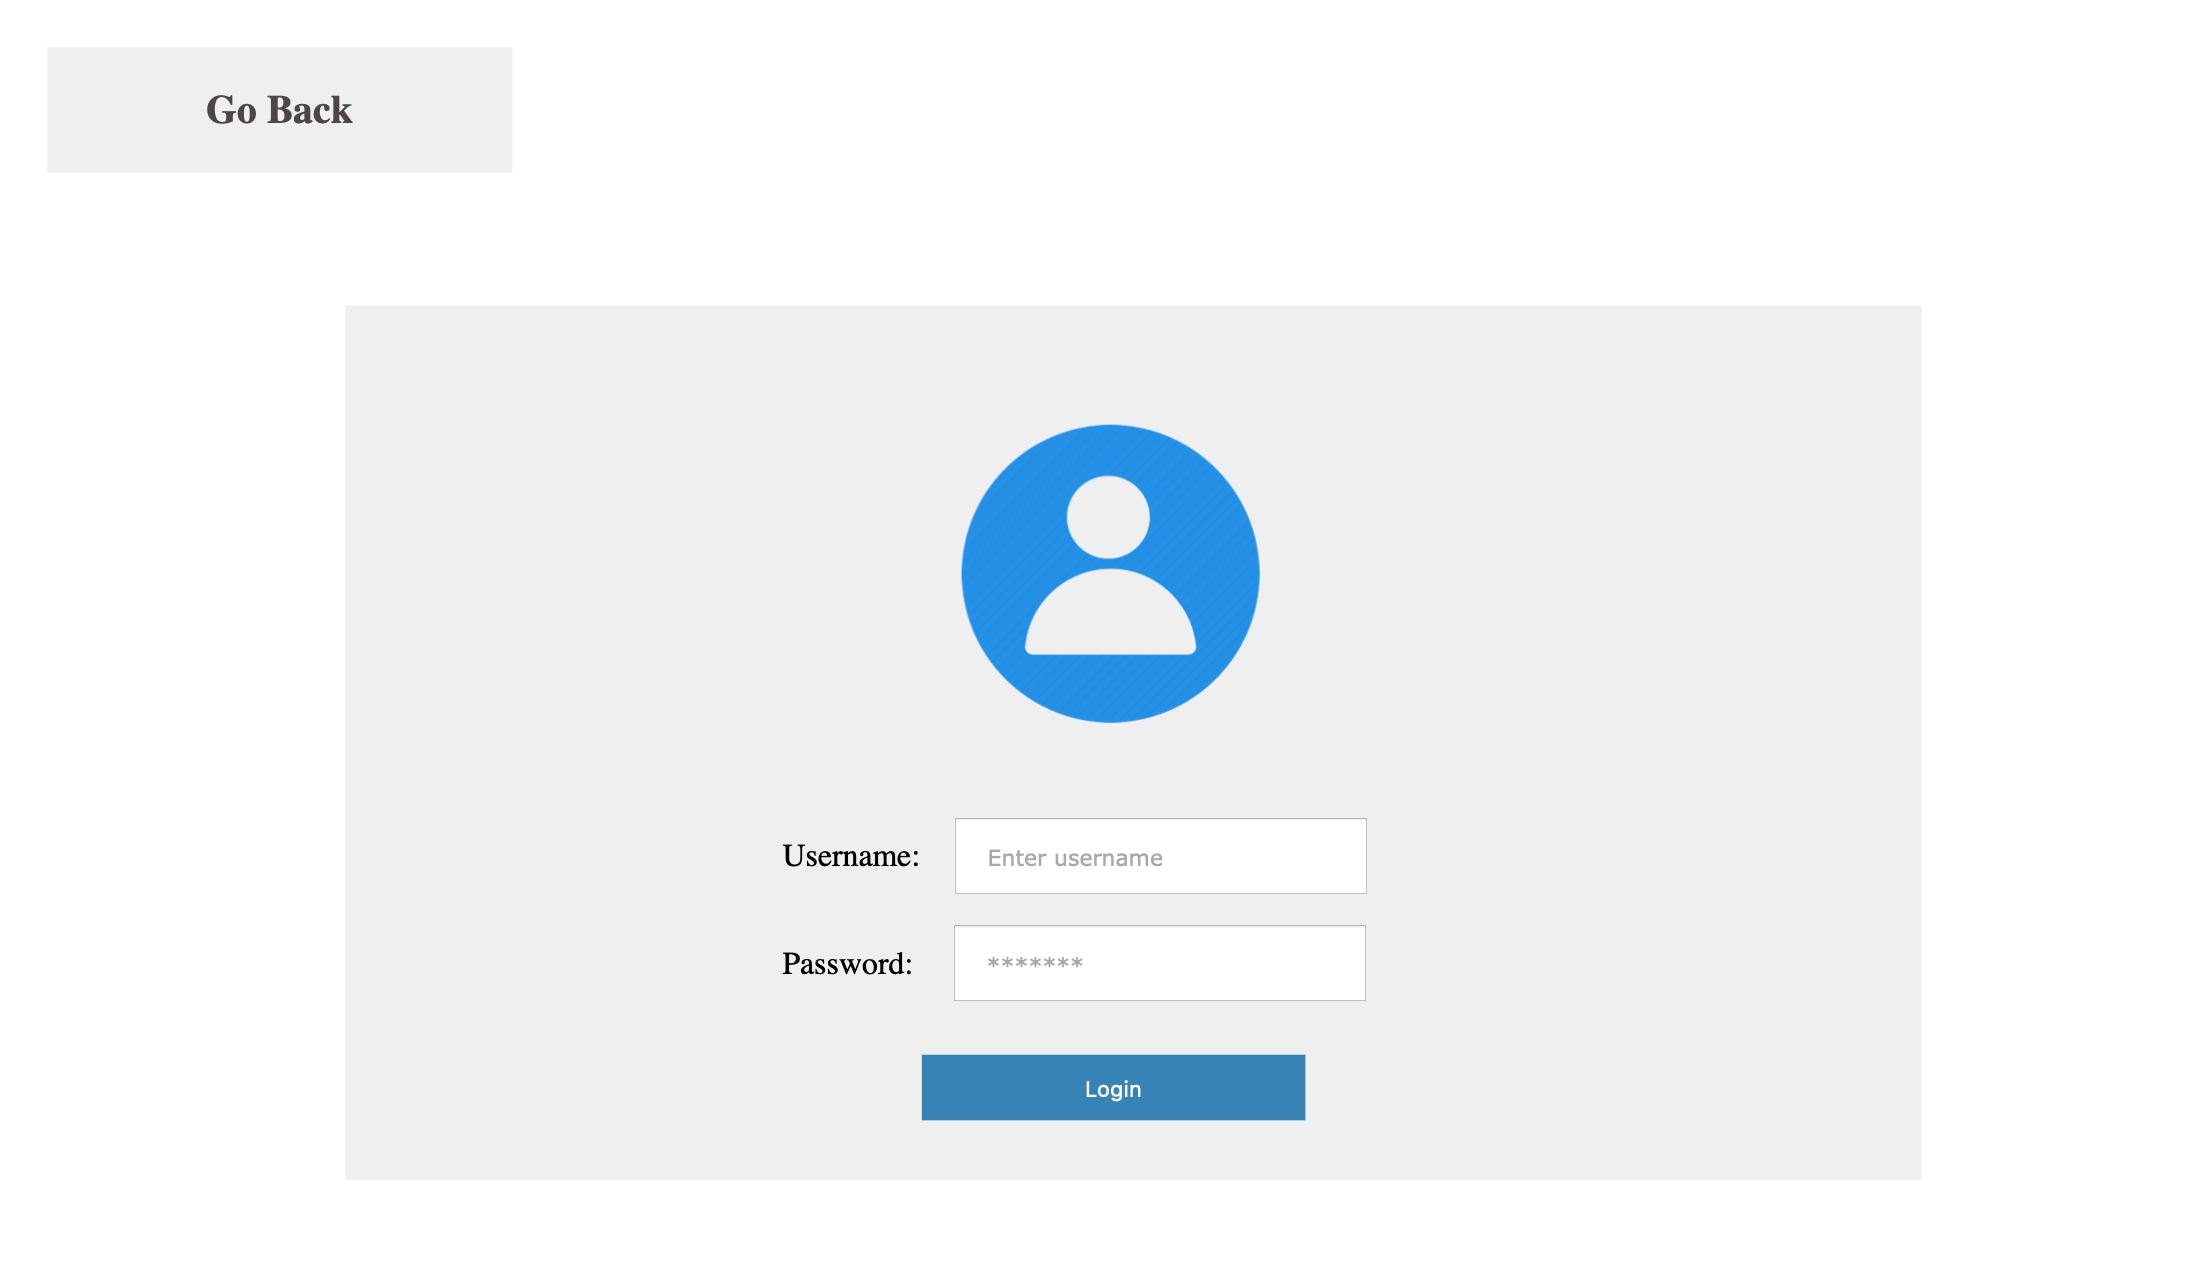
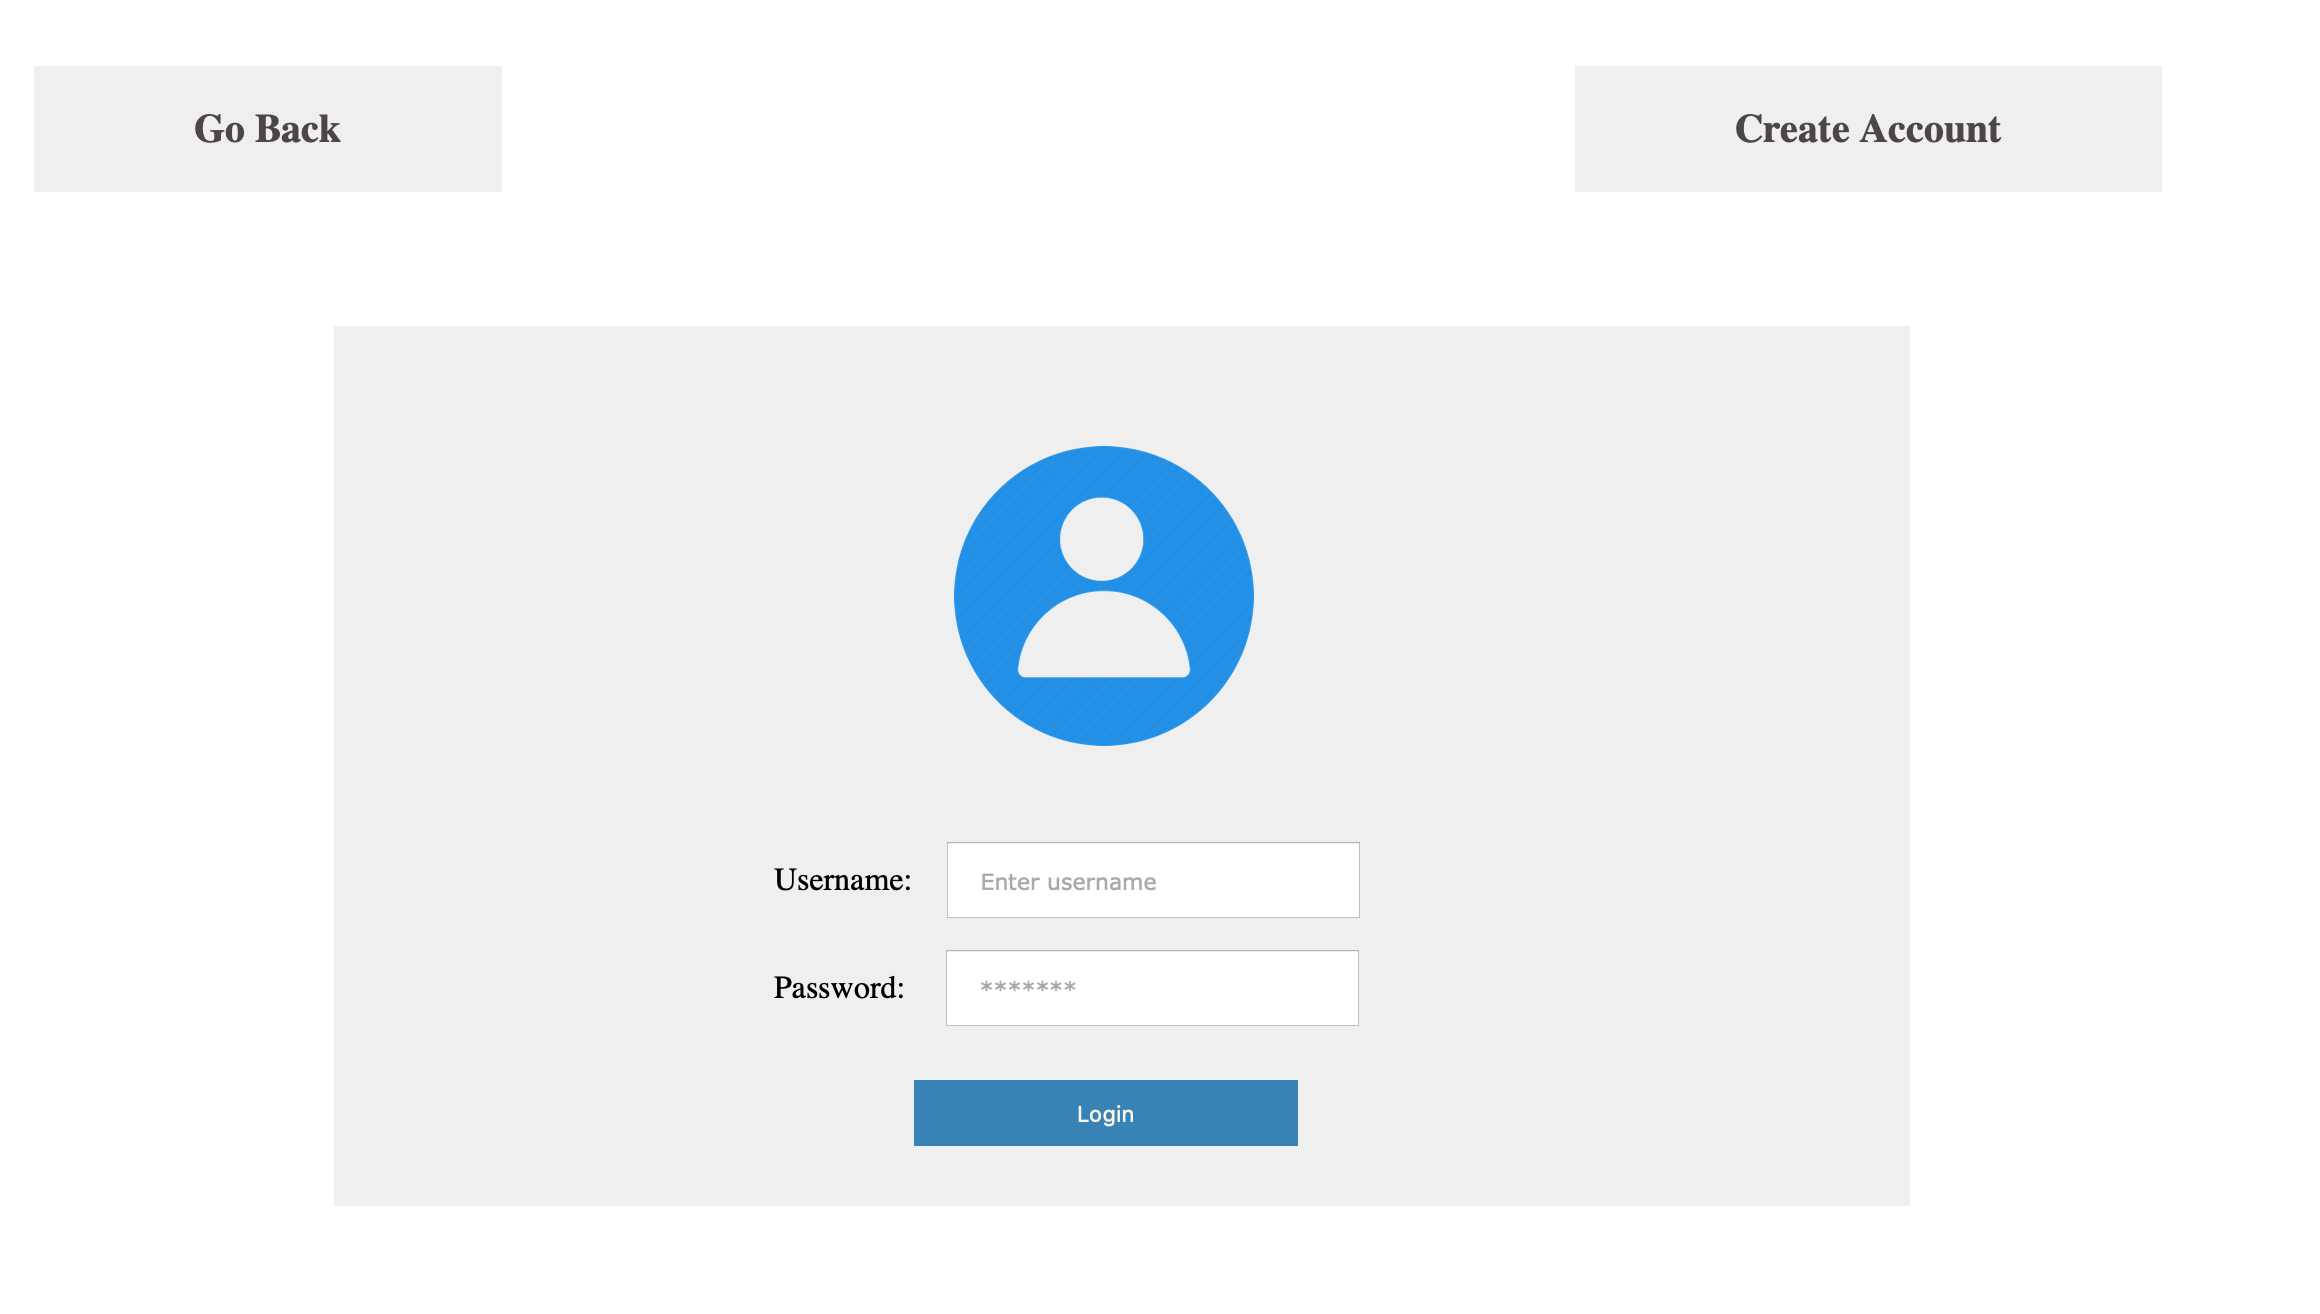
added createAcc btn

diff --git a/code/customerProfileEng.html b/code/customerProfileEng.html
@@ -9,7 +9,7 @@
 </head>
 <body>
     <a class = "links" href = "mainPageEng.html">Go Back</a>
-    <button type="createaccount" >Create Account</button>
+    <a class = "links createaccount" href = "createAccount.html">Create Account</a>
     <form name = "loginForm" onsubmit="return validateForm()" method = "post">
         <div id = "boxLayout">
             <div class ="profileImgContainer">

diff --git a/code/CSS/style.css b/code/CSS/style.css
@@ -125,6 +125,10 @@ a{
     float: right;
     background-color: #f9fcfb;
 }
+.createaccount{
+    float: right;
+    margin-right: 150px;
+}
 
 .links:hover{
     background-color: #f9fcfb;
